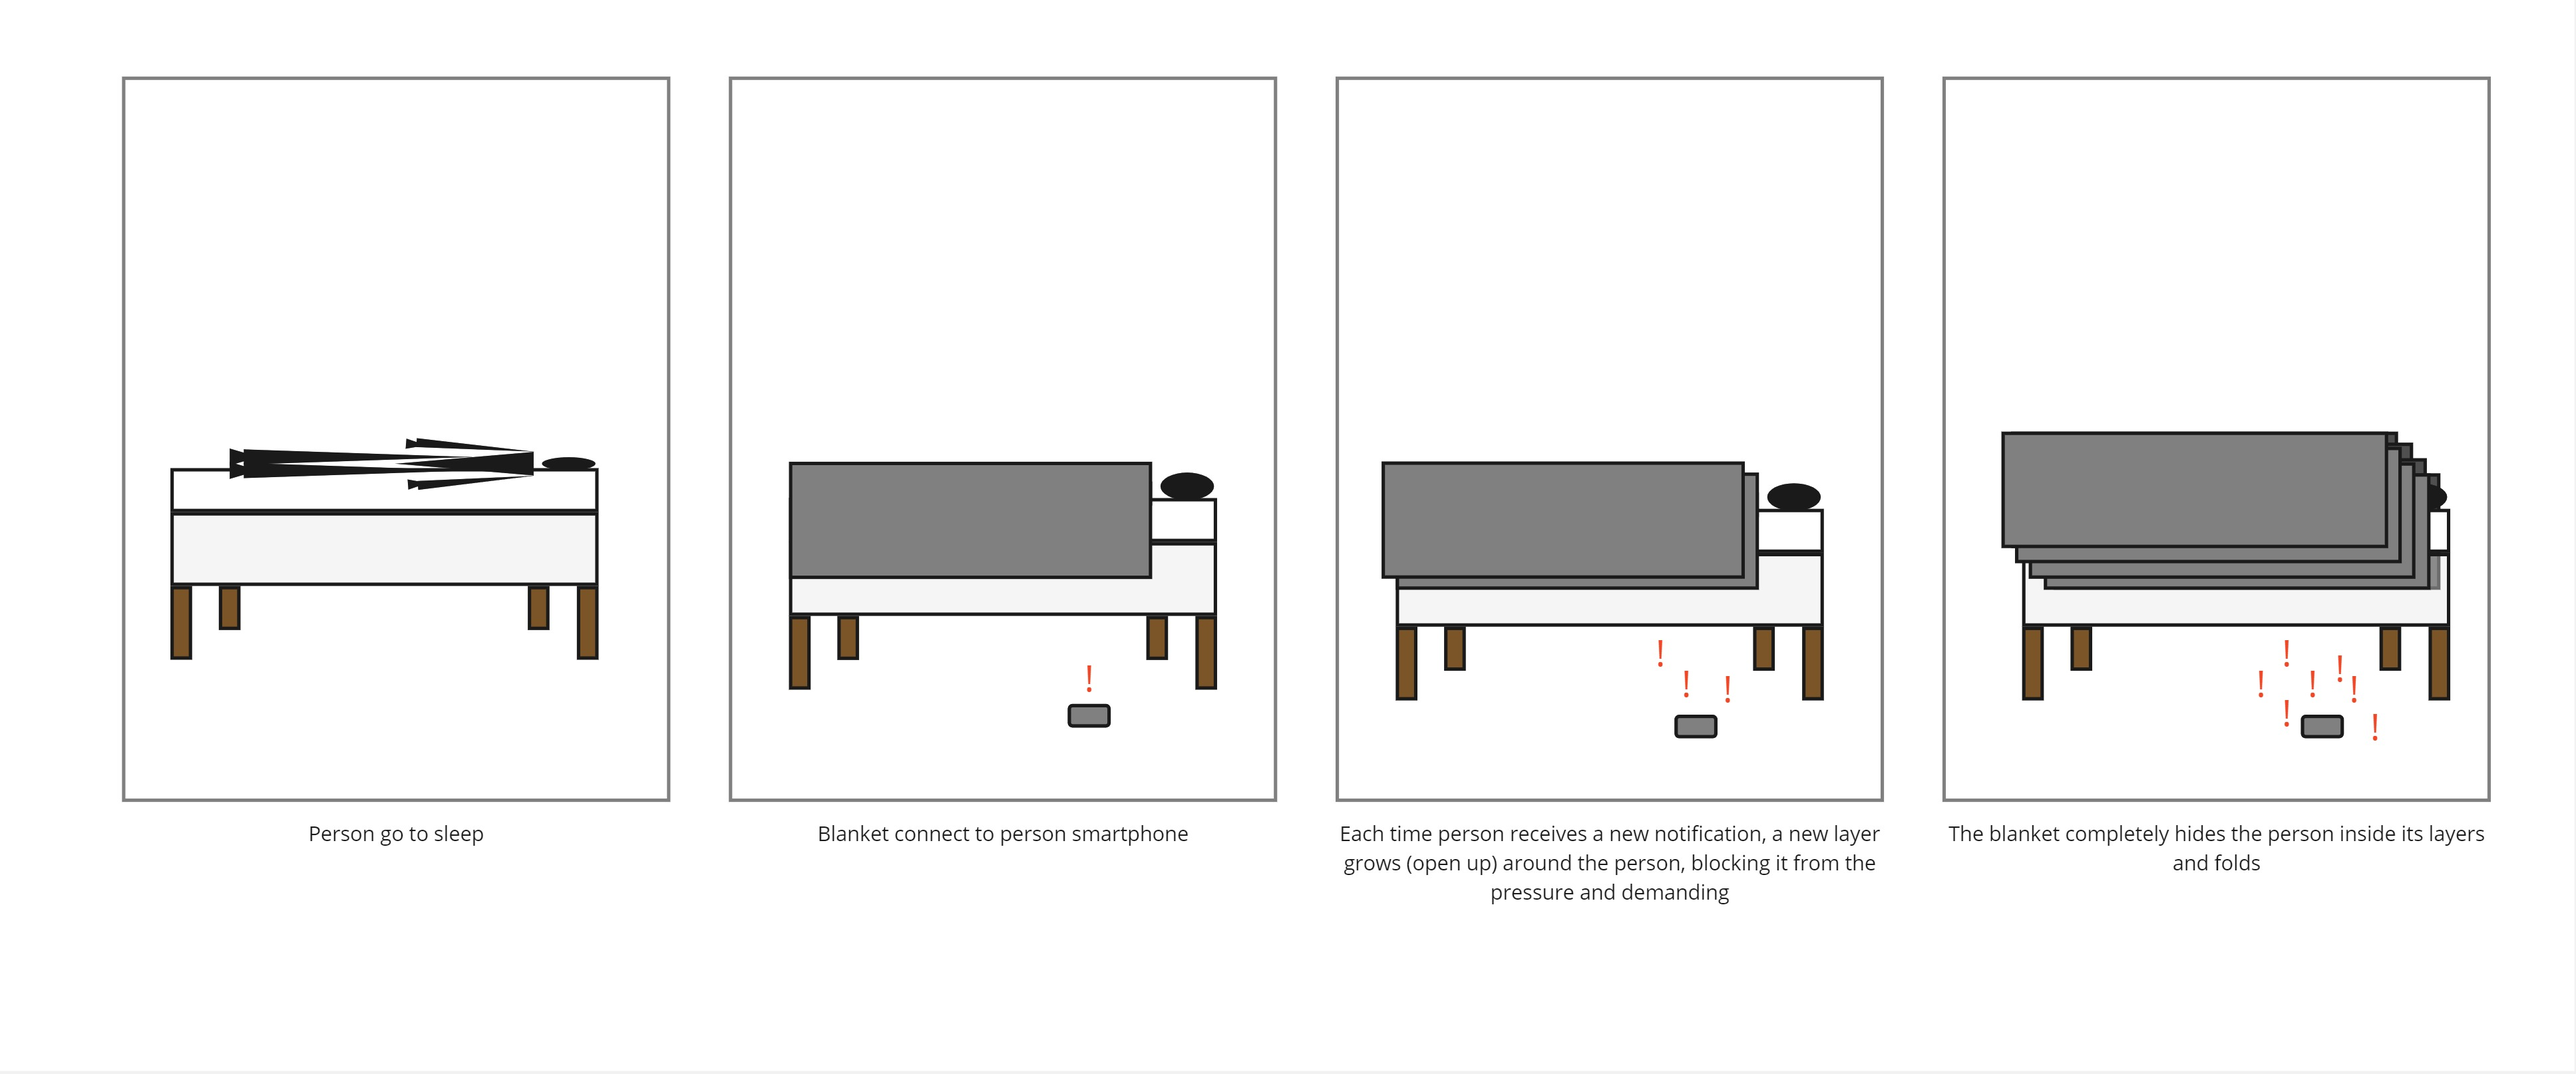
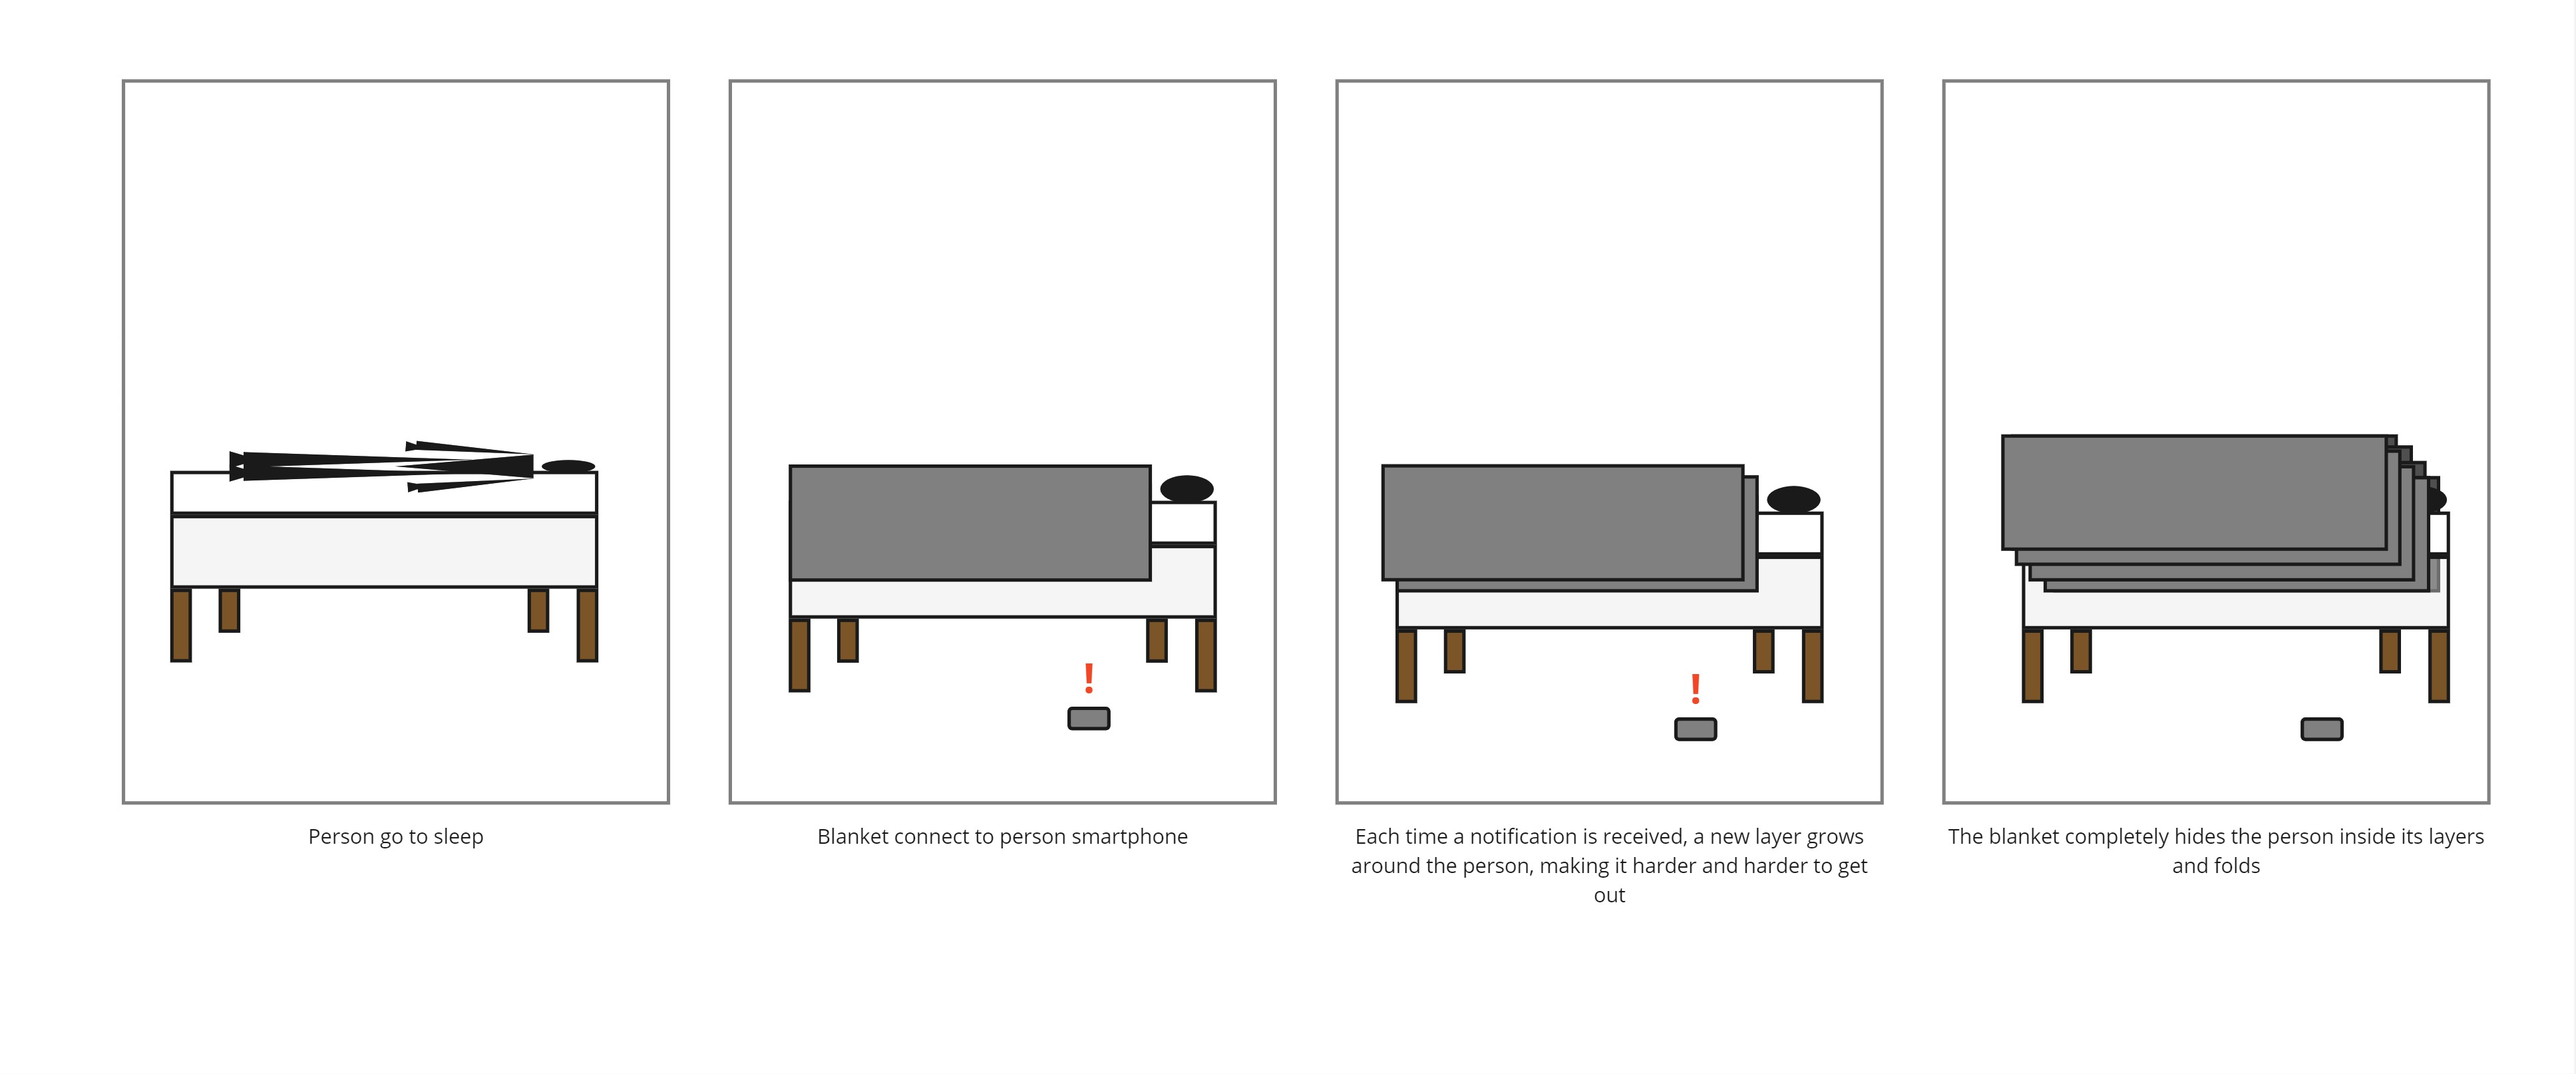
presentation completed

diff --git a/presentation/07-11-2024.md b/presentation/07-11-2024.md
@@ -3,48 +3,58 @@
 - Master Media Design + O2R
 
 ## Area of intervention
-Our skin as a home environment.
+The skin as a home.
 
-+ Skin species ![alt text](images/research/skinspecies.jpg)
-+ Skin mapping ![alt text](images/research/skinmapping.jpg)
+![alt text](images/research/skinmapping.jpg)
 
 ## Research Question
 How can we use touch to connect ourselves to our surroundings?
 
 ## Research
-Describe in a short paragraph (~1000 chars) the research that you have conducted around your core questions. Mentions your research methods: interviews, observations, questionnaires, et cætera. Illustrate each method with corresponding data, photo, sketches, audio, movies, etc. You can put a lot of elements here, but please curate the most illustrative materials.
+My first observations were focused on understanding how a skin can be identified and what could or could not be considered a skin. That led to a series of photographs and the description of different skin subspecies, which helped me build an understanding on what kind of gestures, actions, interactions and relations could be found within them. I also performed a skin mapping, trying to identify the diversity of skin patterns and behaviors within the same continuous human surface. From there, I went to sketching and testing with different re-combinations of the previously collected data, trying to think of new meaningful connections.
 
++ Skin subspecies ![alt text](images/research/skinspecies.jpg)
+![alt text](images/research/UmbrelaSkinNarrative.png)
+![alt text](images/research/BedSkinNarrative.png)
 
++ Gestures, actions, interactions and relations ![alt text](images/prototypes/softskinCards.jpg)
+
++ Skin mapping ![alt text](images/research/SkinMapA.jpg)
+![alt text](images/research/SkinMapC.jpg)
+![alt text](images/research/SkinMapD.jpg)
+
++ Sketching ![alt text](images/prototypes/group1.1.jpg)
+![alt text](images/prototypes/group1.2.jpg)
 
 ## Insights
-- The skin is the largest interface between a body and the outer world and imediate surroundings.
+- The sense of touch is mostly able to identify changes related to temperature and resistance (friction/volume)
+- There are specific gestures that create immediate allusion to skins (peel off, envelop, pinch)
+- The same skin can have different patterns defined by its location, movement or friction.
 
 ## First ideas & prototypes
 Show three of your prototypes.
 
-### Name of first prototype
-Short paragraph (~250 chars) describing the prototype.
+### Rooting
+This rug robot has modular, fur-like straws that respond to footsteps. As someone stands on it, sensors detect pressure, causing the fur to tense and “grow” around their feet. The base modules heat up, creating a warm, comforting zone around each foot.
 
-+ One photo of the prototype (can be gif animation, or static)
-+ One storyboard of the prototype
-+ (Optional) Audio
-+ (Optional) Video
++ Prototype
 
-### Name of second prototype
-Short paragraph (~250 chars) describing the prototype.
+![alt text](images/prototypes/Root.gif)
++ Storyboard ![alt text](images/storyboards/storyboardrug.jpg)
 
-+ One photo of the prototype (can be gif animation, or static)
-+ One storyboard of the prototype
-+ (Optional) Audio
-+ (Optional) Video
+### Snuggle
+This robot blanket connects to your smartphone, adding a layer around you with each notification. As layers grow, it becomes harder to get out, until you’re fully enveloped in its folds, in a cozy cocoon.
 
-### Name of third prototype
-Short paragraph (~250 chars) describing the prototype.
++ Prototype
 
-+ One photo of the prototype (can be gif animation, or static)
-+ One storyboard of the prototype
-+ (Optional) Audio
-+ (Optional) Video
+![alt text](images/prototypes/Snugle.gif)
++ Storyboard ![alt text](images/storyboards/storyboardBlanket.jpg)
+
+### Shiver
+This robot has a textured 3D surface that responds to touch. As the user strokes it, sensors detect the movement, expanding the surface in that area. When the hand moves, the texture follows it and the expanded spots return to their original form.
+
++ Prototype ![alt text](images/prototypes/shiver.gif)
++ Storyboard ![alt text](images/storyboards/storyboardpillow.jpg)
 
 ## Next Steps
-In one sentence, describe what you will focus on next.
+Develop a new series of prototypes, pushing further the main concepts of warping, thickness (layers), creation of textured patterns and augmented touch.
